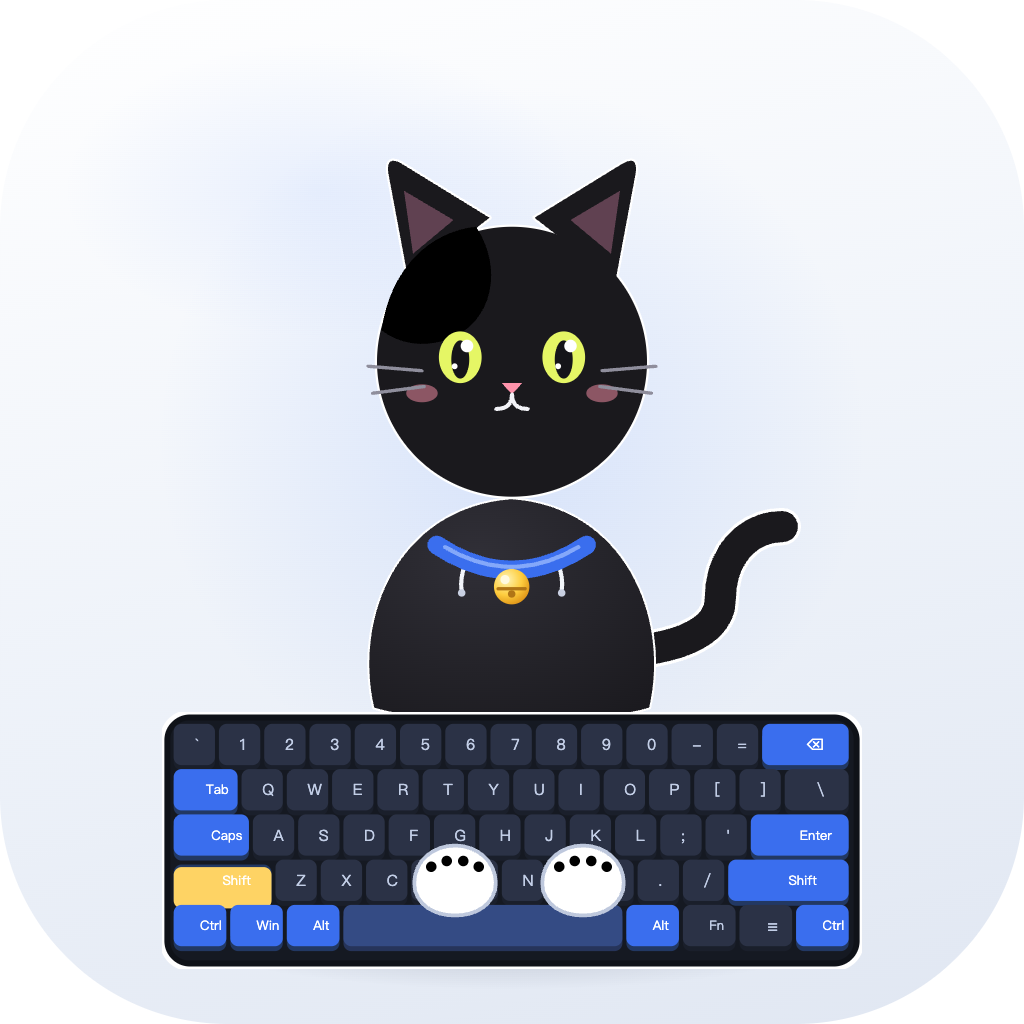
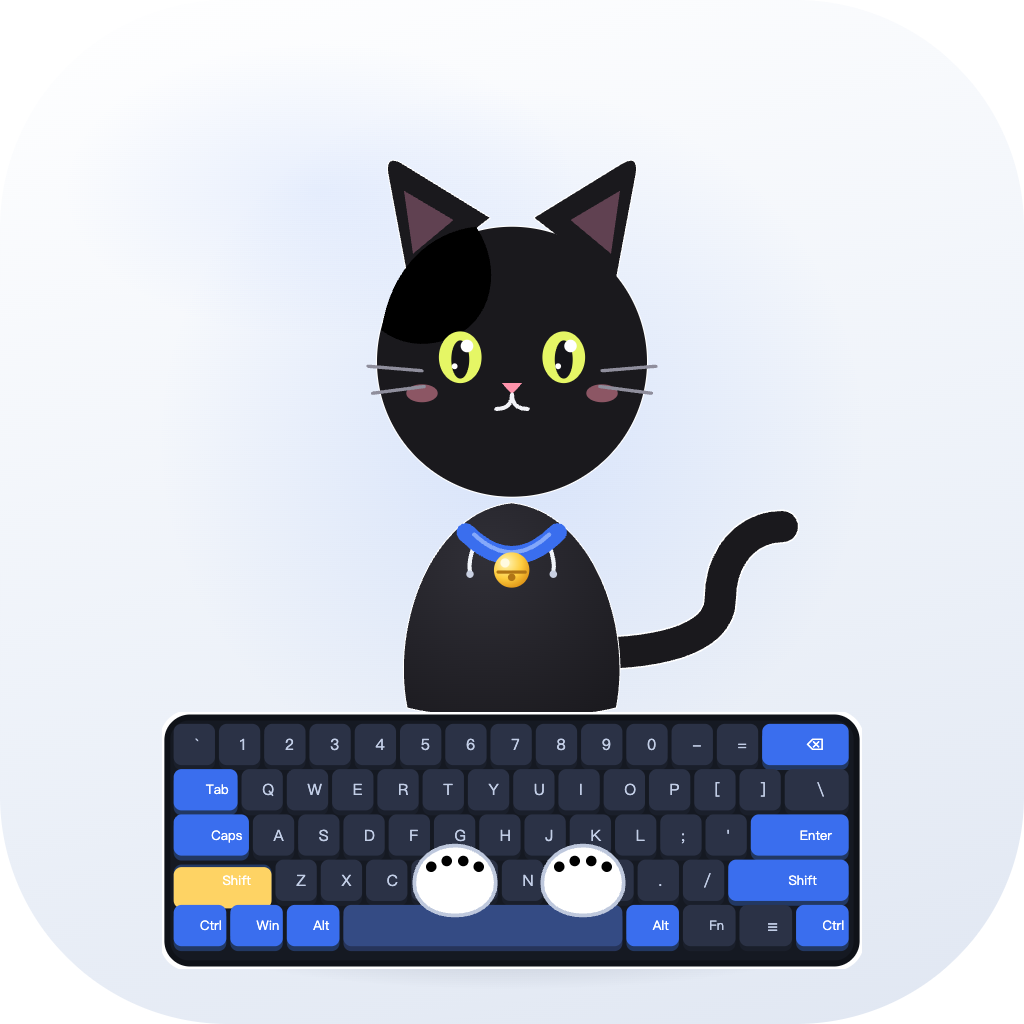
v2.7.1：贴纸白边粗细可自定义（0–4px 滑块，矢量/尾巴/头像投影/视频边框全走 --sticker-w 变量）；猫身微调稍胖并修复胳膊悬空；图标随新体态重新生成

Changed region(s): [[0.3438, 0.4688, 0.6562, 0.7188]]

diff --git a/src/renderer/panel/panel.js b/src/renderer/panel/panel.js
@@ -10,7 +10,7 @@
     perm: $('#perm'), permText: $('#permText'), btnPermOpen: $('#btnPermOpen'), btnRetry: $('#btnRetry'), btnPermFix: $('#btnPermFix'),
     headName: $('#headName'), btnFrenzy: $('#btnFrenzy'), btnAngryLine: $('#btnAngryLine'),
     headScale: $('#headScale'), headScaleVal: $('#headScaleVal'), petScale: $('#petScale'), petScaleVal: $('#petScaleVal'),
-    sfxVolume: $('#sfxVolume'), sfxVolumeVal: $('#sfxVolumeVal'),
+    sfxVolume: $('#sfxVolume'), sfxVolumeVal: $('#sfxVolumeVal'), stickerWidth: $('#stickerWidth'), stickerWidthVal: $('#stickerWidthVal'),
     switchSound: $('#switchSound'), desk: $('#desk'), voiceName: $('#voiceName'), btnClearVoice: $('#btnClearVoice'),
     privacyStatus: $('#privacyStatus'), privacyReason: $('#privacyReason'), privacyCapabilities: $('#privacyCapabilities'),
     toast: $('#toast'),
@@ -194,6 +194,10 @@
     els.petScaleVal.textContent = `${Math.round(s.petScale * 100)}%`;
     els.sfxVolume.value = s.sfxVolume;
     els.sfxVolumeVal.textContent = `${Math.round(s.sfxVolume * 100)}%`;
+    els.stickerWidth.value = s.stickerWidth ?? 1;
+    els.stickerWidthVal.textContent = `${Number(s.stickerWidth ?? 1)}px`;
+    els.stickerWidth.disabled = !s.sticker;
+    els.stickerWidth.title = s.sticker ? '贴纸白边粗细 0–4px' : '先勾选「贴纸白边」才生效';
     for (const c of $$('[data-key]')) c.checked = !!s[c.dataset.key];
     els.switchSound.disabled = !s.keySfx || s.sfxOn === false;
     els.switchSound.title = s.keySfx && s.sfxOn !== false ? '' : s.sfxOn === false ? '「音效」开关已关闭' : '先勾选「键盘音效」才会出声';
@@ -299,6 +303,11 @@
   bind($('#btnResetHead'), 'click', () => applyResult(() => api.resetHead(), () => '已还原为默认头像（Q 版猫头）'));
   bind($('#btnResetHeadPos'), 'click', async () => { await set({ headOffset: null }); toast('头像位置已归位'); });
   for (const c of $$('[data-key]')) bind(c, 'change', () => set({ [c.dataset.key]: c.checked }));
+  bind(els.stickerWidth, 'input', async () => {
+    const v = Number(els.stickerWidth.value);
+    els.stickerWidthVal.textContent = `${v}px`;
+    await set({ stickerWidth: v });
+  });
   bind(els.switchSound, 'change', () => set({ switchSound: els.switchSound.value }));
   bind(els.desk, 'change', () => set({ desk: els.desk.value }));
   for (const [input, label, key] of [[els.headScale, els.headScaleVal, 'headScale'], [els.petScale, els.petScaleVal, 'petScale'], [els.sfxVolume, els.sfxVolumeVal, 'sfxVolume']]) {

diff --git a/src/renderer/pet/pet.css b/src/renderer/pet/pet.css
@@ -127,15 +127,26 @@ body[data-head="photo"][data-media="image"][data-anim="static"] #headImg,
 body[data-head="photo"][data-media="image"][data-anim="static"] #headGhost { display: none; }
 /* 视频头像：与图片头像严格互斥，永远只有一个在显示 */
 body[data-head="photo"][data-media="video"] #headVideo { display: block; object-fit: cover; }
-body.sticker[data-head="photo"][data-media="video"] #headVideo { border: 1px solid #fff; border-radius: 16px; box-shadow: 0 4px 10px rgba(0, 0, 0, .18); }
+body.sticker[data-head="photo"][data-media="video"] #headVideo { border: var(--sticker-w, 1px) solid #fff; border-radius: 16px; box-shadow: 0 4px 10px rgba(0, 0, 0, .18); }
 body[data-head="cartoon"] #headCartoon { display: block; }
+/* 贴纸白边粗细：--sticker-w 由面板「白边」滑块控制（0–4px，默认 1） */
+body.sticker #torso .sil path,
+body.sticker #headCartoon .sil *,
+body.sticker #deskmouse .sil,
+body.sticker #kb .sil,
+body.sticker #pad .sil { stroke-width: var(--sticker-w, 1px); }
+body.sticker #torso #tailSil { stroke-width: calc(15.5px + var(--sticker-w, 1px)); }
 #headCartoon { position: absolute; left: 0; bottom: 0; width: 100%; display: none; }
 body:not(.sticker) #headImg, body:not(.sticker) #headCartoon, body:not(.sticker) #headVideo { filter: drop-shadow(0 4px 5px rgba(0, 0, 0, .32)); }
 /* 贴纸白边：把图片压成纯白剪影，再用一串 drop-shadow 向外撑出描边 */
 #headGhost, #headStaticGhost {
   filter: brightness(0) invert(1)
-    drop-shadow(.3px 0 0 #fff) drop-shadow(-.3px 0 0 #fff) drop-shadow(0 .3px 0 #fff) drop-shadow(0 -.3px 0 #fff)
-    drop-shadow(.25px .25px 0 #fff) drop-shadow(-.25px .25px 0 #fff) drop-shadow(.25px -.25px 0 #fff) drop-shadow(-.25px -.25px 0 #fff)
+    drop-shadow(calc(var(--sticker-w, 1px) * .3) 0 0 #fff) drop-shadow(calc(var(--sticker-w, 1px) * -.3) 0 0 #fff)
+    drop-shadow(0 calc(var(--sticker-w, 1px) * .3) 0 #fff) drop-shadow(0 calc(var(--sticker-w, 1px) * -.3) 0 #fff)
+    drop-shadow(calc(var(--sticker-w, 1px) * .25) calc(var(--sticker-w, 1px) * .25) 0 #fff)
+    drop-shadow(calc(var(--sticker-w, 1px) * -.25) calc(var(--sticker-w, 1px) * .25) 0 #fff)
+    drop-shadow(calc(var(--sticker-w, 1px) * .25) calc(var(--sticker-w, 1px) * -.25) 0 #fff)
+    drop-shadow(calc(var(--sticker-w, 1px) * -.25) calc(var(--sticker-w, 1px) * -.25) 0 #fff)
     drop-shadow(0 5px 6px rgba(0, 0, 0, .28));
 }
 #headAnim.squish { animation: squish .42s cubic-bezier(.3, .7, .3, 1); }

diff --git a/src/renderer/shared/art.js b/src/renderer/shared/art.js
@@ -6,7 +6,7 @@
 }(typeof self !== 'undefined' ? self : this, function () {
   'use strict';
 
-  const TORSO_PATH = 'M34 114 C 28 76, 46 22, 80 16 C 114 22, 132 76, 126 114 C 104 120, 56 120, 34 114 Z';
+  const TORSO_PATH = 'M30 114 C 22 74, 42 20, 80 16 C 118 20, 138 74, 130 114 C 108 120, 52 120, 30 114 Z';
   // 尾巴和身子共用 SVG / 贴纸底。两段设计贝塞尔在接点共用竖直切线，始终向上呈 S 形。
   // 所有控制点都在 [16.5,223.5] × [16.5,115.5] 内：凸包性质保证最宽 18 的圆头描边不出界。
   const TAIL_ROOT = [118, 88];
@@ -67,8 +67,8 @@
 <g class="sil"><path d="${TORSO_PATH}" fill="#fff" stroke="#fff" stroke-width="1" stroke-linejoin="round"/></g>
 <path d="${TORSO_PATH}" fill="url(#torsoShade)"/>
 ${['bluewhite', 'orange', 'cream'].includes(variant) ? `<g clip-path="url(#torsoClip)" fill="var(--patch)">
-  <path d="M32 114 C 26 74, 42 20, 80 16 C 78 42, 73 70, 71 118 L 32 114 Z"/>
-  <path d="M92 17 C 112 22, 126 44, 132 74 C 118 62, 100 46, 92 17 Z"/>
+  <path d="M28 114 C 24 72, 40 20, 80 16 C 78 42, 74 70, 72 118 L 28 114 Z"/>
+  <path d="M94 17 C 116 22, 132 44, 140 74 C 126 62, 106 46, 94 17 Z"/>
 </g>` : ''}
 <path class="string" d="M62 36 q -3 8 -2 13"/><path class="string" d="M98 36 q 3 8 2 13"/>
 <circle class="aglet" cx="60" cy="50" r="1.8"/><circle class="aglet" cx="100" cy="50" r="1.8"/>

diff --git a/src/main/settings.js b/src/main/settings.js
@@ -13,6 +13,7 @@ const DEFAULTS = {
   angryLine: false,     // 「能别放屁吗」台词开关：选中后触发时在头上显示台词；未选中只暴躁敲键盘
   kbDir: 'reverse',     // 键鼠方向：reverse 反向（默认，鼠标在右）| forward 正向（键盘朝向宠物自己，鼠标在左）
   sticker: true,        // 贴纸白边
+  stickerWidth: 1,      // 贴纸白边粗细 0–4px（0 = 无白边纯剪影）
   keyBubbles: true,     // 按键气泡
   keySfx: true,         // 键盘音效
   sfxOn: true,          // 合成音效总开关（键盘音 / 生气 / 喵 / 呼噜）
@@ -60,6 +61,9 @@ function sanitize(patch = {}) {
   }
   if (Number.isFinite(patch.headScale)) {
     out.headScale = Math.min(1.4, Math.max(0.6, Math.round(patch.headScale * 100) / 100));
+  }
+  if (Number.isFinite(patch.stickerWidth)) {
+    out.stickerWidth = Math.min(4, Math.max(0, Math.round(patch.stickerWidth * 100) / 100));
   }
   if (Number.isFinite(patch.sfxVolume)) {
     out.sfxVolume = Math.min(1, Math.max(0, Math.round(patch.sfxVolume * 100) / 100));

diff --git a/src/main/selftest.js b/src/main/selftest.js
@@ -529,6 +529,12 @@ async function runSelfTest(ctx) {
     check((await js(panel, "!!document.querySelector('[data-key=\"headLock\"]')")) === true, '应当有锁定头像位置复选框');
     check(a.videoBtnGone === true && a.easterGone === true, '「选视频」和「原声彩蛋」应当已经移除');
     check(a.sfxOn === true, '应当有音效总开关');
+    check((await js(panel, "!!document.getElementById('stickerWidth')")) === true, '应当有白边粗细滑块');
+    await setSettings({ stickerWidth: 2 });
+    await sleep(200);
+    const sw = await js(pet, "getComputedStyle(document.querySelector('#torso .sil path')).strokeWidth");
+    check(sw === '2px', `白边粗细应当生效（${sw}）`);
+    await setSettings({ stickerWidth: 1 });
     check(a.headBtns === 2, '头像行应当只剩 选图片/还原默认头像 两个按钮');
     check(a.soundDisabled === false, '键盘音效开着时轴体应当可选');
     check(a.head.includes('当前：'), '没有显示当前头像');

diff --git a/src/renderer/panel/index.html b/src/renderer/panel/index.html
@@ -77,6 +77,7 @@
         </div>
         <div class="line">
           <label class="chk"><input type="checkbox" data-key="sticker">贴纸白边</label>
+          <label class="slider" title="贴纸白边粗细 0–4px（先勾选「贴纸白边」才生效）">白边<input type="range" id="stickerWidth" min="0" max="4" step="0.25"><b id="stickerWidthVal"></b></label>
           <label class="chk"><input type="checkbox" data-key="keyBubbles">按键气泡</label>
           <label class="chk"><input type="checkbox" data-key="keySfx">键盘音效</label>
           <label class="chk" title="锁定后不能拖动头像调整位置；未锁定时按住头像拖动可调整位置"><input type="checkbox" data-key="headLock">锁定头像位置</label>

diff --git a/test/unit.test.js b/test/unit.test.js
@@ -118,6 +118,10 @@ test('头的大小限制在 0.6 – 1.4，路径必须是绝对路径', () => {
   else assert.equal(sanitize({ head: '/tmp/a.png' }).head, '/tmp/a.png');
   assert.deepEqual(sanitize({ petPos: { x: 10.4, y: 20.6 } }).petPos, { x: 10, y: 21 });
   assert.equal(sanitize({ petPos: { x: 'a' } }).petPos, undefined);
+  assert.equal(sanitize({ stickerWidth: 9 }).stickerWidth, 4);
+  assert.equal(sanitize({ stickerWidth: -1 }).stickerWidth, 0);
+  assert.equal(sanitize({ stickerWidth: 1.234 }).stickerWidth, 1.23);
+  assert.equal(sanitize({ stickerWidth: 'big' }).stickerWidth, undefined);
 });
 
 // ---------- 导入：选中即生效，只保留最近的几个，正在用的不删 ----------

diff --git a/src/renderer/pet/pet.js b/src/renderer/pet/pet.js
@@ -211,6 +211,7 @@
     el.headAnim.style.cursor = s.headLock ? 'pointer' : 'move';
     el.body.classList.toggle('sticker', s.sticker);
     document.documentElement.style.setProperty('--hs', s.headScale);
+    document.documentElement.style.setProperty('--sticker-w', `${Number(s.stickerWidth ?? 1)}px`);
     if (!el.kbdBuilt) {
       el.kbd.innerHTML = ART.keyboardSvg(payload.meta.isMac);
       el.kbdBuilt = true;
